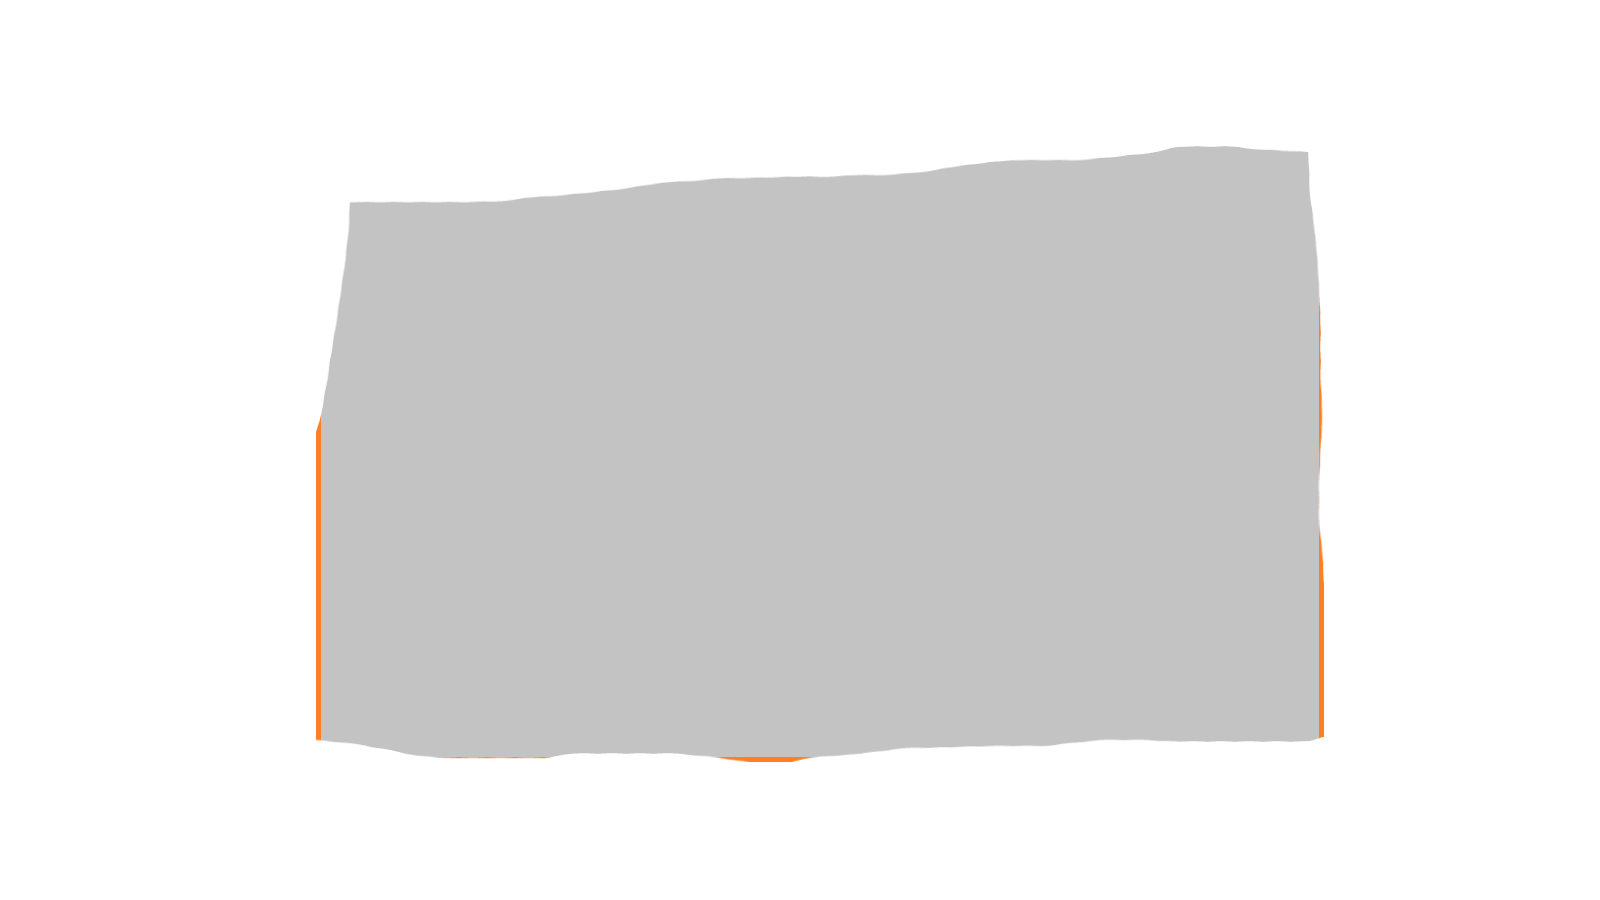
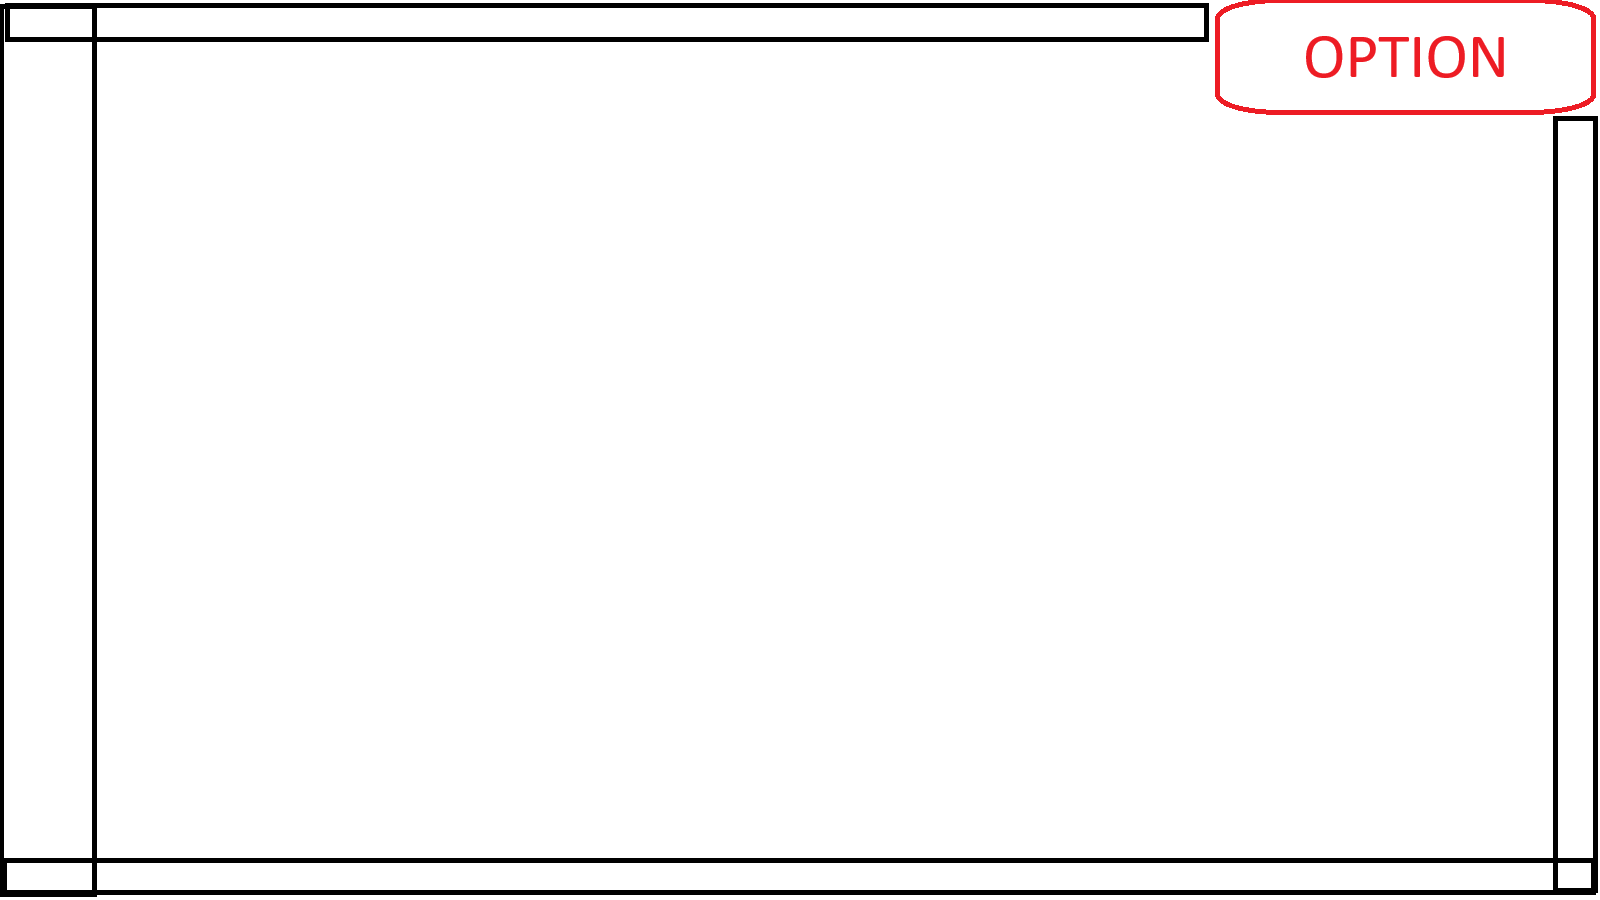
Full screen working

diff --git a/IHM/Control/OptionControl.xaml b/IHM/Control/OptionControl.xaml
@@ -18,7 +18,7 @@
                     Height="205">
             
             <!-- Musique -->
-            <StackPanel Orientation="Vertical" HorizontalAlignment="Stretch" Margin="0,5">
+            <StackPanel Orientation="Vertical" HorizontalAlignment="Stretch" Margin="0,1">
                 <Label Content="Volume de la musique" HorizontalAlignment="Center"/>
                 <Slider x:Name="MusicSlider"
                         Minimum="0" Maximum="1" TickFrequency="0.1" IsSnapToTickEnabled="True"
@@ -27,7 +27,7 @@
             </StackPanel>
 
             <!-- Effets -->
-            <StackPanel Orientation="Vertical" HorizontalAlignment="Stretch" Margin="0,5">
+            <StackPanel Orientation="Vertical" HorizontalAlignment="Stretch" Margin="0,1">
                 <Label Content="Volume des effets" HorizontalAlignment="Center"/>
                 <Slider x:Name="SFXSlider"
                         Minimum="0" Maximum="1" TickFrequency="0.1" IsSnapToTickEnabled="True"
@@ -36,23 +36,39 @@
             </StackPanel>
 
             <!-- Dialogue -->
-            <StackPanel Orientation="Vertical" HorizontalAlignment="Stretch" Margin="0,5">
+            <StackPanel Orientation="Vertical" HorizontalAlignment="Stretch" Margin="0,1">
                 <Label Content="Volume des dialogues" HorizontalAlignment="Center"/>
                 <Slider x:Name="DialogueSlider"
                         Minimum="0" Maximum="1" TickFrequency="0.1" IsSnapToTickEnabled="True"
                         Width="360"
                         ValueChanged="DialogueSlider_OnValueChanged"/>
             </StackPanel>
+            
+            <!-- Fullscreen -->
+            <Grid HorizontalAlignment="Center">
+                <Grid.ColumnDefinitions>
+                    <ColumnDefinition Width="Auto"/>   <!-- Colonne pour la checkbox -->
+                    <ColumnDefinition Width="*" />     <!-- Colonne pour le bouton retour -->
+                </Grid.ColumnDefinitions>
 
-            <!-- Bouton Retour -->
-            <Image x:Name="Retour"
-                   Source="../Resources/IMG_clickable/retour.png"
-                   Width="99"
-                   Height="65"
-                   Stretch="Uniform"
-                   HorizontalAlignment="Center"
-                   Margin="0,5"
-                   MouseDown="Retour_OnMouseDown"/>
+                <CheckBox x:Name="FullScreenToggle"
+                          Content="Plein écran"
+                          VerticalAlignment="Center"
+                          Margin="0,0,10,0"
+                          Checked="FullScreenToggle_Checked"
+                          Unchecked="FullScreenToggle_Unchecked"/>
+
+                <Image x:Name="Retour"
+                       Grid.Column="1"
+                       Source="../Resources/IMG_clickable/retour.png"
+                       Width="99"
+                       Height="65"
+                       Stretch="Uniform"
+                       HorizontalAlignment="Left"
+                       MouseDown="Retour_OnMouseDown"/>
+            </Grid>
+
         </StackPanel>
+        
     </Grid>
 </UserControl>

diff --git a/IHM/Control/OptionControl.xaml.cs b/IHM/Control/OptionControl.xaml.cs
@@ -10,6 +10,10 @@ namespace IHM.Control;
 /// </summary>
 public partial class OptionControl : UserControl
 {
+    private WindowState _previousWindowState;
+    private WindowStyle _previousWindowStyle;
+    private ResizeMode _previousResizeMode;
+    
     private ISoundService soundService;
     private Action closeAction;
     
@@ -66,5 +70,28 @@ public partial class OptionControl : UserControl
     private void MusicSlider_OnValueChanged(object sender, RoutedPropertyChangedEventArgs<double> e)
     {
         this.soundService.VolumeMusic = e.NewValue;
+    }
+
+    private void FullScreenToggle_Checked(object sender, RoutedEventArgs e)
+    {
+        var parentWindow = Window.GetWindow(this);
+        _previousWindowState = parentWindow.WindowState;
+        _previousWindowStyle = parentWindow.WindowStyle;
+        _previousResizeMode = parentWindow.ResizeMode;
+
+        // Passe en plein écran
+        parentWindow.WindowStyle = WindowStyle.None;
+        parentWindow.ResizeMode = ResizeMode.NoResize;
+        parentWindow.WindowState = WindowState.Maximized;
+        parentWindow.Topmost = true;
+    }
+    
+    private void FullScreenToggle_Unchecked(object sender, RoutedEventArgs e)
+    {
+        var parentWindow = Window.GetWindow(this);
+        parentWindow.Topmost = false;
+        parentWindow.WindowStyle = _previousWindowStyle;
+        parentWindow.ResizeMode = _previousResizeMode;
+        parentWindow.WindowState = _previousWindowState;
     }
 }
